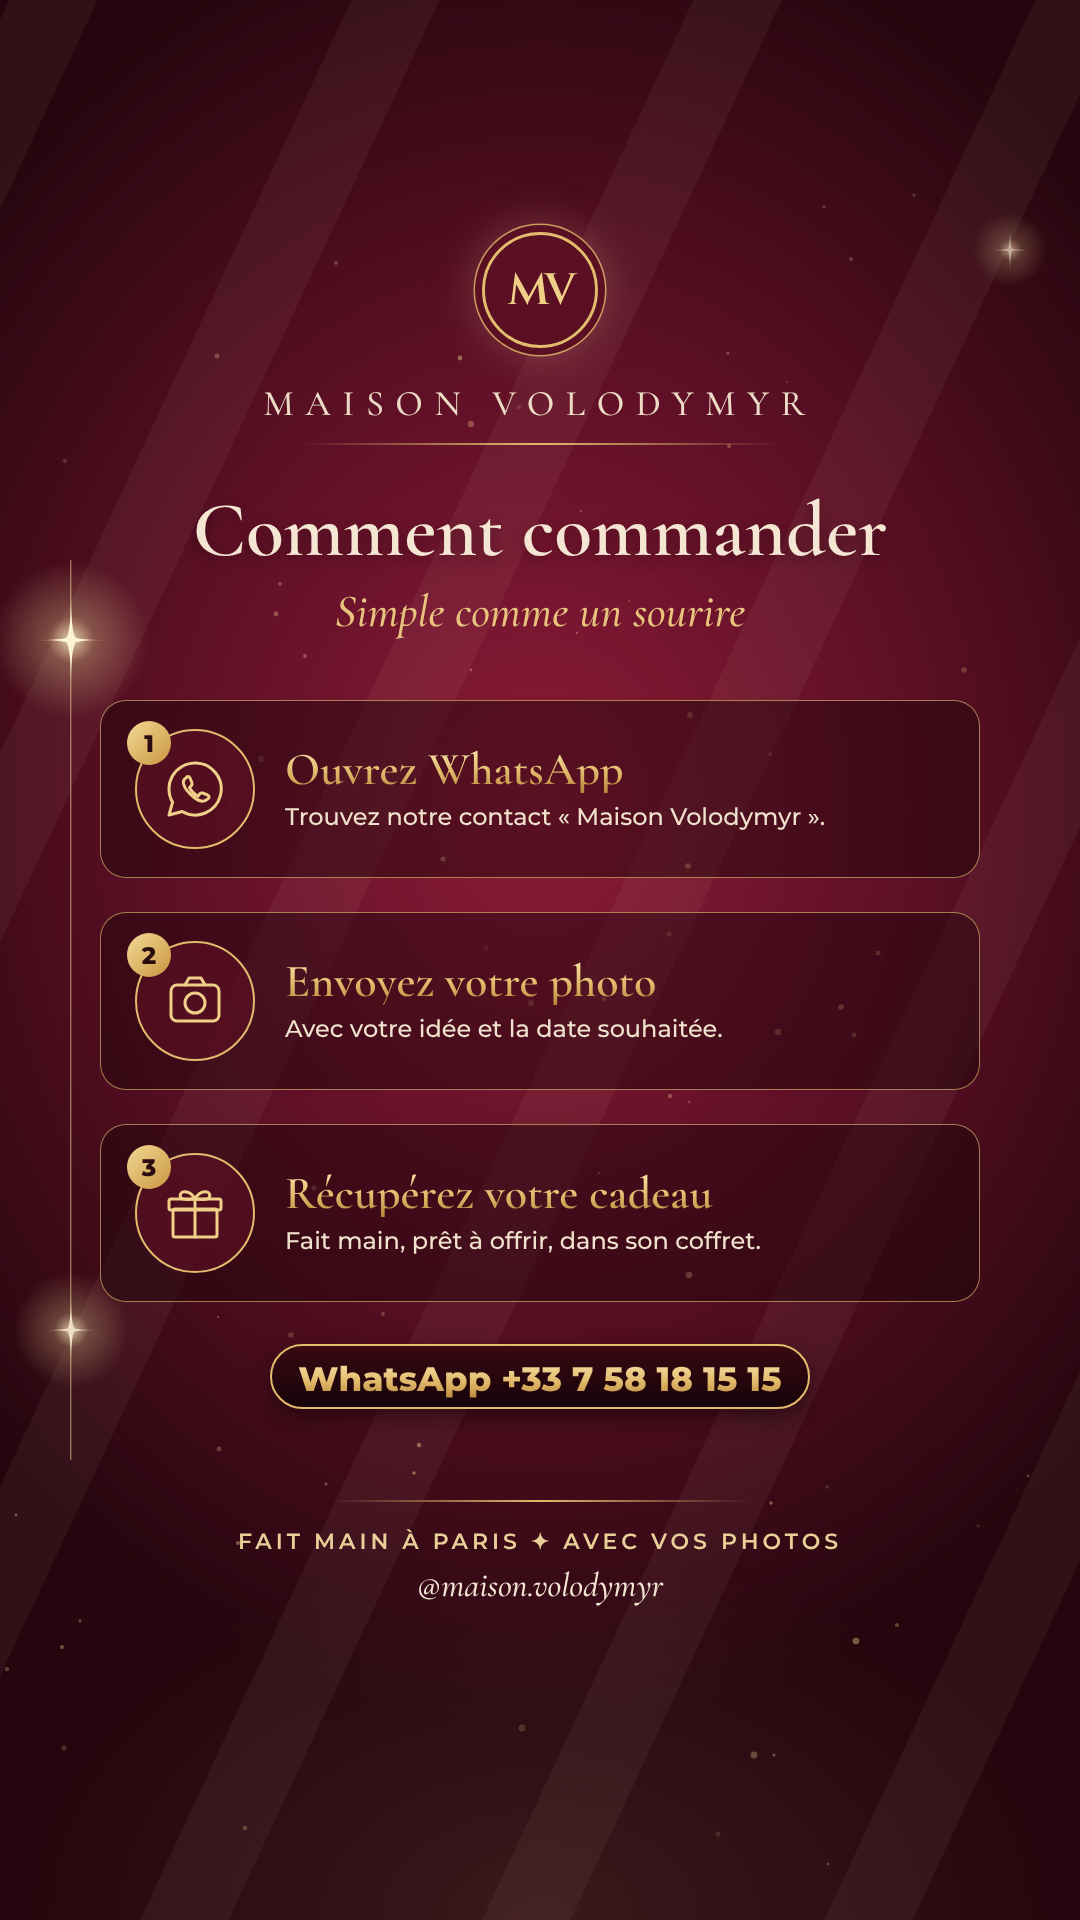
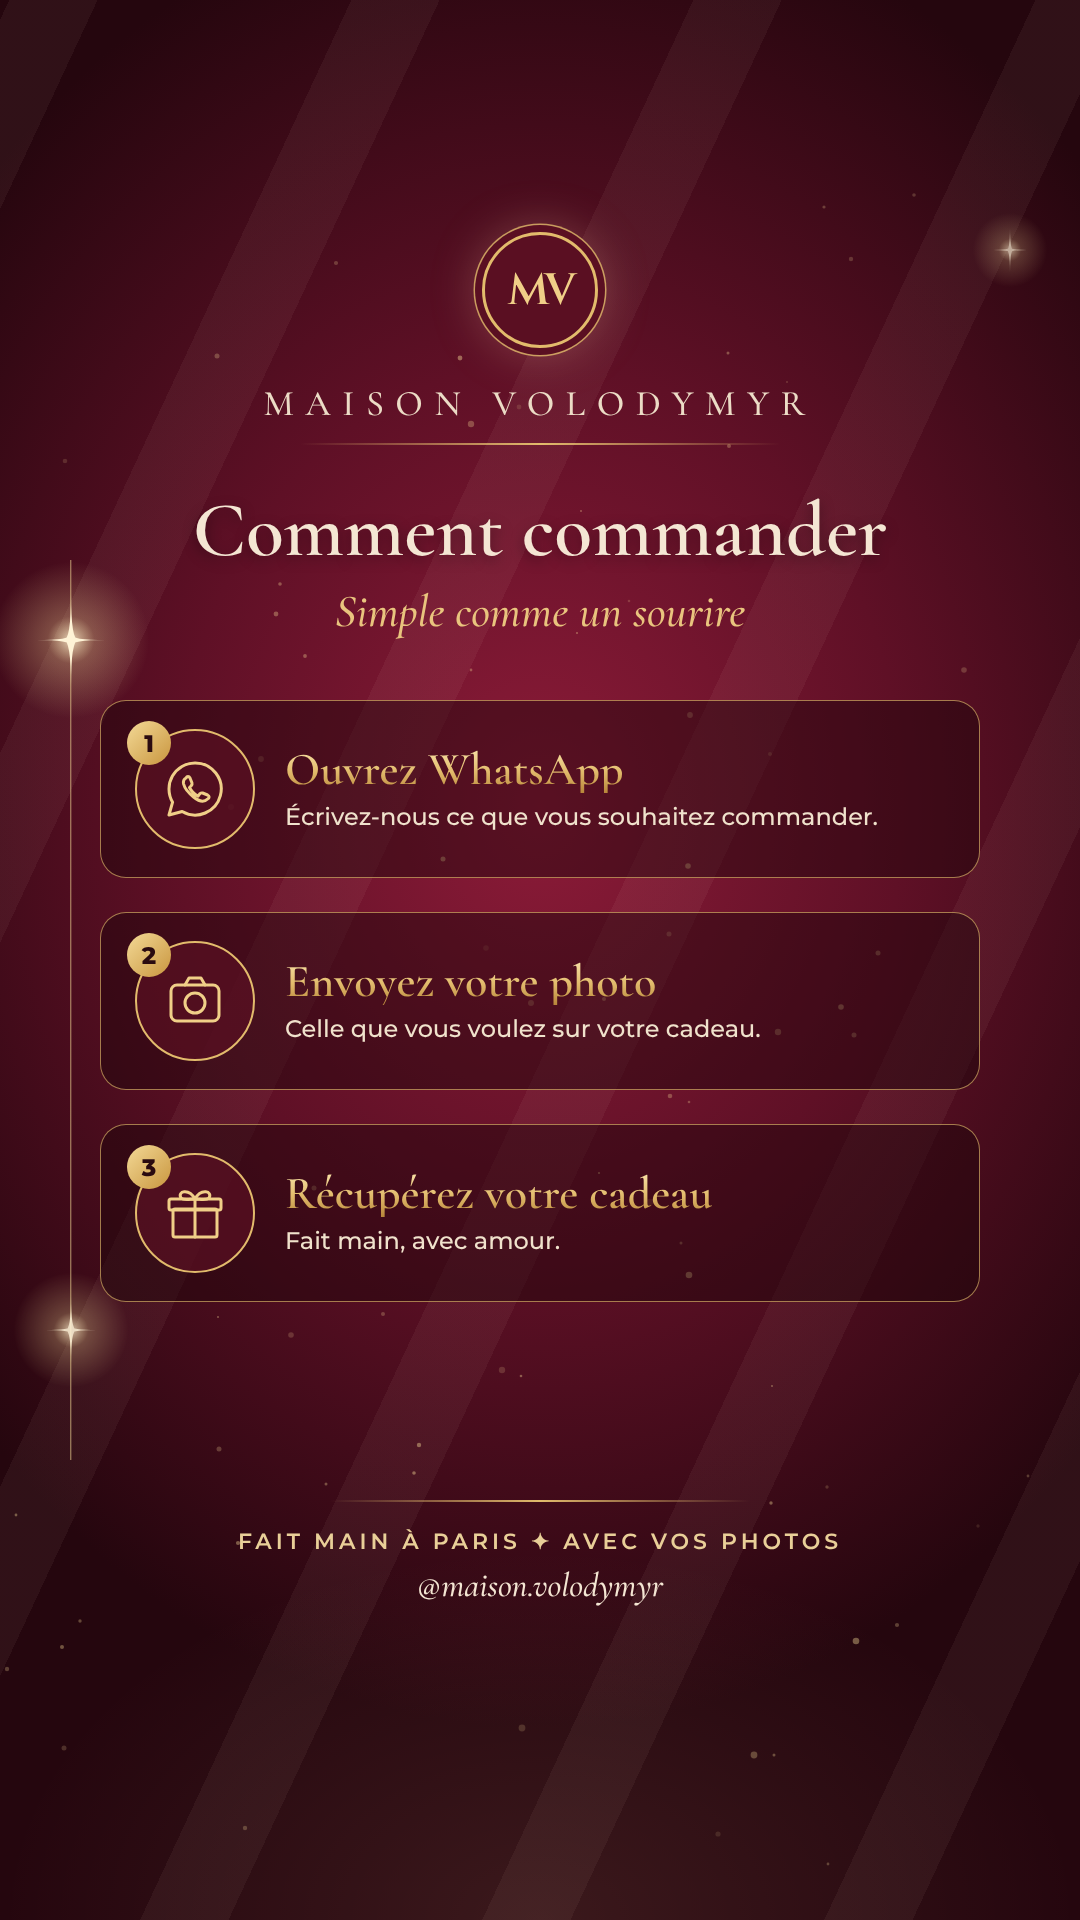
Commander story: simpler steps, space for WhatsApp link sticker
Claude-Session: https://claude.ai/code/session_01NVYZfQU8cBxnfbyUcCNFxq

diff --git a/instagram/generate_pack.js b/instagram/generate_pack.js
@@ -47,10 +47,10 @@ const step=(n,ic,t,d)=>`<div style="display:flex;align-items:center;gap:30px;bor
 <span style="position:absolute;top:-10px;left:-10px;width:44px;height:44px;border-radius:50%;background:linear-gradient(135deg,#f3d996,#c9963f);color:#2a0b10;font:800 24px Montserrat;display:grid;place-items:center">${n}</span></div>
 <div><div class="gold" style="font:600 46px/1.05 'Cormorant Garamond',serif">${t}</div><div style="font-size:24px;line-height:1.35;color:#f0e2cc;margin-top:8px">${d}</div></div></div>`;
 const commander=page(`<div style="position:absolute;top:700px;left:100px;right:100px;display:grid;gap:34px">
-${step(1,'wa','Ouvrez WhatsApp','Trouvez notre contact « Maison Volodymyr ».')}
-${step(2,'photo','Envoyez votre photo','Avec votre idée et la date souhaitée.')}
-${step(3,'gift','Récupérez votre cadeau','Fait main, prêt à offrir, dans son coffret.')}
-<div style="text-align:center;margin-top:8px"><span class="pill"><span class="gold" style="font-size:34px">WhatsApp +33 7 58 18 15 15</span></span></div></div>`,
+${step(1,'wa','Ouvrez WhatsApp','Écrivez-nous ce que vous souhaitez commander.')}
+${step(2,'photo','Envoyez votre photo','Celle que vous voulez sur votre cadeau.')}
+${step(3,'gift','Récupérez votre cadeau','Fait main, avec amour.')}
+</div>`,
 {title:'Comment commander',sub:'Simple comme un sourire',f1:'FAIT MAIN À PARIS  ✦  AVEC VOS PHOTOS'});
 
 /* ---------- Tarifs ---------- */
